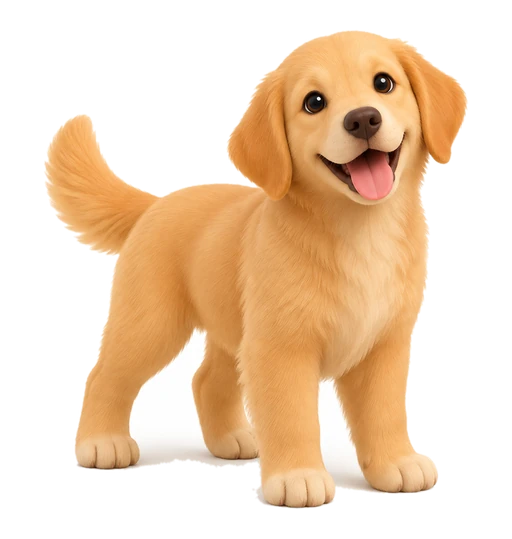
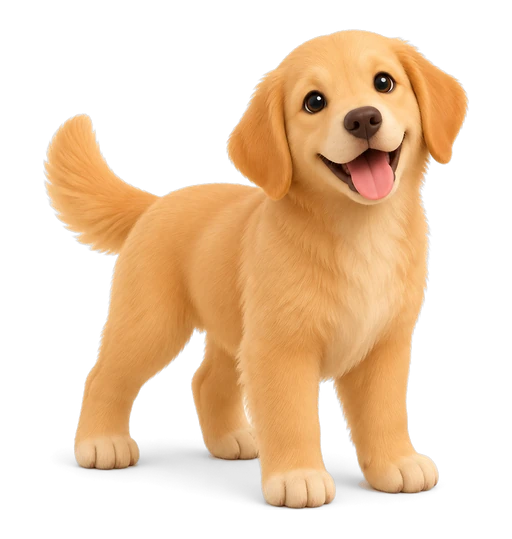
dog card: the white background removed cleanly (user: "흰색 배경삭제가 제대로 안된거 같은데")
- tools/rep_cards.py cut_white = the Halli Galli 3D rule: the pale grey-white touching the edge + big white holes it can't
  reach (between the legs, under the belly) + pale slivers under the paws → transparent; the floor shadow kept as a soft
  see-through shadow; the fur tips un-mixed from the white (no white rim)
- js/card-boxes.js refreshed (dog's drawn box)

diff --git a/js/card-boxes.js b/js/card-boxes.js
@@ -1,2 +1,2 @@
 /* generated by tools/card_boxes.py: each card picture's drawn area [x, y, w, h] as fractions of its canvas */
-window.CROCO_CARD_BOX = {"ant":[0.0098,0.1206,0.9805,0.757],"apple":[0.0879,0.0501,0.8242,0.8998],"bag":[0.123,0.0074,0.752,0.9852],"big":[0.0391,0.0965,0.9219,0.8052],"cake":[0.0605,0.0779,0.8789,0.8423],"cap":[0.0,0.1521,1.0,0.6957],"cat":[0.1152,0.0186,0.7695,0.9629],"comb":[0.0449,0.0909,0.9082,0.8163],"cook":[0.1641,0.0,0.6719,1.0],"cow":[0.043,0.0928,0.9121,0.8108],"cup":[0.1445,0.0,0.709,1.0],"dig":[0.0938,0.0427,0.8105,0.9147],"dip":[0.082,0.0538,0.834,0.8905],"dirt":[0.0,0.2115,0.998,0.5751],"dog":[0.0859,0.0557,0.8281,0.8868],"doll":[0.1113,0.0241,0.7793,0.9499],"door":[0.1836,0.0,0.6309,1.0],"dry":[0.0605,0.0779,0.877,0.8423],"duck":[0.0996,0.0353,0.8008,0.9276],"face":[0.0742,0.0631,0.8496,0.8738],"fan":[0.0,0.1781,1.0,0.6438],"fat":[0.002,0.1299,0.9961,0.7403],"feel":[0.0586,0.0798,0.8828,0.8386],"fire":[0.1465,0.0148,0.6992,0.9518],"fish":[0.0078,0.1224,0.9844,0.7532],"fit":[0.0332,0.1002,0.9316,0.7978],"foot":[0.0625,0.0761,0.875,0.8479],"fork":[0.0938,0.0408,0.8105,0.9147],"four":[0.1094,0.0241,0.7793,0.9499],"hat":[0.0,0.1985,1.0,0.6011],"ink":[0.0996,0.0353,0.7988,0.9276],"man":[0.3047,0.0,0.3887,1.0],"map":[0.0,0.2393,1.0,0.5195],"meat":[0.0,0.167,1.0,0.666],"milk":[0.1191,0.0111,0.7598,0.9759],"mirror":[0.1582,0.0,0.6836,1.0],"mitt":[0.041,0.0965,0.918,0.8071],"monkey":[0.0664,0.0705,0.8652,0.8571],"moon":[0.0586,0.0798,0.8828,0.8386],"mop":[0.1719,0.0,0.6562,1.0],"mouse":[0.0195,0.1262,0.9766,0.7477],"mug":[0.0254,0.1095,0.9492,0.7811],"mushroom":[0.0703,0.0668,0.8574,0.8664],"nail":[0.084,0.0557,0.832,0.8887],"nap":[0.0371,0.0983,0.9238,0.8015],"nest":[0.0254,0.1095,0.9492,0.7811],"net":[0.0,0.1429,1.0,0.7143],"nose":[0.0742,0.0649,0.8516,0.8701],"nut":[0.0488,0.0891,0.9004,0.8219],"paint":[0.0176,0.1299,0.9629,0.7421],"pencil":[0.0469,0.0891,0.9062,0.82],"pie":[0.0,0.1429,1.0,0.7124],"pillow":[0.0,0.2319,1.0,0.5343],"pin":[0.1211,0.013,0.7578,0.9722],"pit":[0.0,0.18,1.0,0.6382],"pop":[0.0859,0.0519,0.8281,0.8942],"popcorn":[0.082,0.0557,0.8066,0.8757],"pot":[0.0,0.1484,1.0,0.7032],"seal":[0.0078,0.1243,0.9844,0.7514],"see":[0.0586,0.0798,0.8828,0.8386],"seven":[0.1152,0.0186,0.7695,0.961],"sink":[0.0781,0.0594,0.8418,0.8813],"sip":[0.1289,0.0019,0.7441,0.9944],"sit":[0.1914,0.0,0.6172,1.0],"sock":[0.123,0.0056,0.752,0.987],"soup":[0.0,0.1818,1.0,0.6122],"spoon":[0.0625,0.0761,0.875,0.8479],"sun":[0.0547,0.0835,0.8887,0.8312],"tail":[0.0352,0.1132,0.9297,0.7588],"ten":[0.0176,0.115,0.9629,0.7699],"tent":[0.0,0.1725,1.0,0.6549],"tie":[0.3027,0.0,0.3926,0.9981],"toe":[0.1387,0.0,0.7227,1.0],"toy":[0.0625,0.0798,0.875,0.8423],"turkey":[0.084,0.0519,0.8301,0.8942],"turtle":[0.0,0.1447,1.0,0.7106],"van":[0.0,0.1707,1.0,0.6586]};
+window.CROCO_CARD_BOX = {"ant":[0.0098,0.1206,0.9805,0.757],"apple":[0.0879,0.0501,0.8242,0.8998],"bag":[0.123,0.0074,0.752,0.9852],"big":[0.0391,0.0965,0.9219,0.8052],"cake":[0.0605,0.0779,0.8789,0.8423],"cap":[0.0,0.1521,1.0,0.6957],"cat":[0.1152,0.0186,0.7695,0.9629],"comb":[0.0449,0.0909,0.9082,0.8163],"cook":[0.1641,0.0,0.6719,1.0],"cow":[0.043,0.0928,0.9121,0.8108],"cup":[0.1445,0.0,0.709,1.0],"dig":[0.0938,0.0427,0.8105,0.9147],"dip":[0.082,0.0538,0.834,0.8905],"dirt":[0.0,0.2115,0.998,0.5751],"dog":[0.0859,0.0557,0.8281,0.8887],"doll":[0.1113,0.0241,0.7793,0.9499],"door":[0.1836,0.0,0.6309,1.0],"dry":[0.0605,0.0779,0.877,0.8423],"duck":[0.0996,0.0353,0.8008,0.9276],"face":[0.0742,0.0631,0.8496,0.8738],"fan":[0.0,0.1781,1.0,0.6438],"fat":[0.002,0.1299,0.9961,0.7403],"feel":[0.0586,0.0798,0.8828,0.8386],"fire":[0.1465,0.0148,0.6992,0.9518],"fish":[0.0078,0.1224,0.9844,0.7532],"fit":[0.0332,0.1002,0.9316,0.7978],"foot":[0.0625,0.0761,0.875,0.8479],"fork":[0.0938,0.0408,0.8105,0.9147],"four":[0.1094,0.0241,0.7793,0.9499],"hat":[0.0,0.1985,1.0,0.6011],"ink":[0.0996,0.0353,0.7988,0.9276],"man":[0.3047,0.0,0.3887,1.0],"map":[0.0,0.2393,1.0,0.5195],"meat":[0.0,0.167,1.0,0.666],"milk":[0.1191,0.0111,0.7598,0.9759],"mirror":[0.1582,0.0,0.6836,1.0],"mitt":[0.041,0.0965,0.918,0.8071],"monkey":[0.0664,0.0705,0.8652,0.8571],"moon":[0.0586,0.0798,0.8828,0.8386],"mop":[0.1719,0.0,0.6562,1.0],"mouse":[0.0195,0.1262,0.9766,0.7477],"mug":[0.0254,0.1095,0.9492,0.7811],"mushroom":[0.0703,0.0668,0.8574,0.8664],"nail":[0.084,0.0557,0.832,0.8887],"nap":[0.0371,0.0983,0.9238,0.8015],"nest":[0.0254,0.1095,0.9492,0.7811],"net":[0.0,0.1429,1.0,0.7143],"nose":[0.0742,0.0649,0.8516,0.8701],"nut":[0.0488,0.0891,0.9004,0.8219],"paint":[0.0176,0.1299,0.9629,0.7421],"pencil":[0.0469,0.0891,0.9062,0.82],"pie":[0.0,0.1429,1.0,0.7124],"pillow":[0.0,0.2319,1.0,0.5343],"pin":[0.1211,0.013,0.7578,0.9722],"pit":[0.0,0.18,1.0,0.6382],"pop":[0.0859,0.0519,0.8281,0.8942],"popcorn":[0.082,0.0557,0.8066,0.8757],"pot":[0.0,0.1484,1.0,0.7032],"seal":[0.0078,0.1243,0.9844,0.7514],"see":[0.0586,0.0798,0.8828,0.8386],"seven":[0.1152,0.0186,0.7695,0.961],"sink":[0.0781,0.0594,0.8418,0.8813],"sip":[0.1289,0.0019,0.7441,0.9944],"sit":[0.1914,0.0,0.6172,1.0],"sock":[0.123,0.0056,0.752,0.987],"soup":[0.0,0.1818,1.0,0.6122],"spoon":[0.0625,0.0761,0.875,0.8479],"sun":[0.0547,0.0835,0.8887,0.8312],"tail":[0.0352,0.1132,0.9297,0.7588],"ten":[0.0176,0.115,0.9629,0.7699],"tent":[0.0,0.1725,1.0,0.6549],"tie":[0.3027,0.0,0.3926,0.9981],"toe":[0.1387,0.0,0.7227,1.0],"toy":[0.0625,0.0798,0.875,0.8423],"turkey":[0.084,0.0519,0.8301,0.8942],"turtle":[0.0,0.1447,1.0,0.7106],"van":[0.0,0.1707,1.0,0.6586]};

diff --git a/tools/rep_cards.py b/tools/rep_cards.py
@@ -22,23 +22,49 @@ CW, BOX_W, BOX_H, TARGET = 512, 0.86, 0.905, 0.76          # = build_words.py
 CH = round(CW * BOX_H / BOX_W)
 
 
-def cut_white(im):
-    """the near-white that touches the edge (+ the faint floor shadow in it) -> transparent, the edge softened by a pixel;
-    only for a picture on an opaque white square (same rule as Phonics-Halli-Galli-3D tools/rep_cards.py)"""
-    a = np.asarray(im.convert('RGBA')).astype(np.float32)
+def cut_white(pic):
+    """(same rule as Phonics-Halli-Galli-3D tools/rep_cards.py cut_white)
+    a picture on an opaque white square (dog — user: "dog 흰바탕 빼야해", then "흰색 배경삭제가 제대로 안된거 같은데"):
+    - the background = the pale grey-white that touches the edge (its floor shadow too) + big pure-white holes it cannot reach
+      (between the legs, under the belly) → transparent, the floor shadow kept as a soft see-through shadow;
+    - the edge (fur tips mixed with the white) un-mixed: alpha from how far a pixel is from white, colour with the white taken out
+    Pictures without a white square stay as they are."""
+    a = np.asarray(pic.convert('RGBA')).astype(np.float32)
     rgb, al = a[..., :3], a[..., 3]
     lo = rgb.min(-1)
-    whiteish = (lo >= 190) & (rgb.max(-1) - lo <= 18) & (al > 200)
+    sat = rgb.max(-1) - lo
     ring = np.ones(al.shape, bool)
     ring[8:-8, 8:-8] = False
-    if whiteish[ring].mean() < .9:
-        return im, False
-    lab, _ = ndi.label(whiteish)
-    ids = np.unique(lab[ring & whiteish])
-    bg = ndi.binary_dilation(np.isin(lab, ids[ids > 0]), iterations=1)
-    soft = np.asarray(Image.fromarray(bg.astype(np.uint8) * 255).filter(ImageFilter.GaussianBlur(1.2))).astype(np.float32) / 255
-    a[..., 3] = al * (1 - soft)
-    return Image.fromarray(a.astype(np.uint8), 'RGBA'), True
+    if ((lo >= 190) & (sat <= 18) & (al > 200))[ring].mean() < .9:
+        return pic, False
+    pale = (lo >= 120) & (sat <= 24) & (al > 200)                  # white … the floor shadow's grey (fur is sat ≥ 79)
+    lab, _ = ndi.label(pale)
+    ids = np.unique(lab[ring & pale])
+    bg = np.isin(lab, ids[ids > 0])
+    white = (lo >= 215) & (sat <= 24)                               # pure-white holes the edge can't reach
+    lab, n = ndi.label(white & ~bg)
+    if n:
+        size = ndi.sum(np.ones_like(lo), lab, index=np.arange(1, n + 1))
+        bg |= np.isin(lab, 1 + np.nonzero(size > .001 * lo.size)[0])
+    lab, _ = ndi.label((lo >= 165) & (sat <= 45) & ~bg)             # pale slivers touching it (under the paws: sat ≈ 30; paw fur ≥ 85)
+    ids = np.unique(lab[ndi.binary_dilation(bg, iterations=2) & (lab > 0)])
+    bg |= np.isin(lab, ids)
+    fg = ~bg
+    out = a.copy()
+    # background: white → clear, grey → a soft dark shadow (alpha from its darkness)
+    sh = np.clip((248 - lo) / 248, 0, 1) * .85
+    out[bg, :3] = 40
+    out[bg, 3] = al[bg] * sh[bg]
+    # the edge band: un-mix the white (alpha from whiteness against the fur colour just inside)
+    band = ndi.binary_dilation(bg, iterations=4) & fg
+    inner = ndi.binary_dilation(bg, iterations=14) & ndi.binary_erosion(fg, iterations=5)
+    ref = float(np.median(lo[inner])) if inner.any() else 150.
+    k = np.clip((255 - lo) / max(255 - ref, 30), 0, 1)
+    kb = np.maximum(k[band], .02)[:, None]
+    out[band, :3] = np.clip((rgb[band] - (1 - kb) * 255) / kb, 0, 255)
+    out[band, 3] = al[band] * k[band]
+    out[..., 3] = np.asarray(Image.fromarray(out[..., 3].astype(np.uint8)).filter(ImageFilter.GaussianBlur(.6))).astype(np.float32)
+    return Image.fromarray(np.clip(out, 0, 255).astype(np.uint8), 'RGBA'), True
 
 
 def fit_card(src):                                         # = build_words.py fit_card
